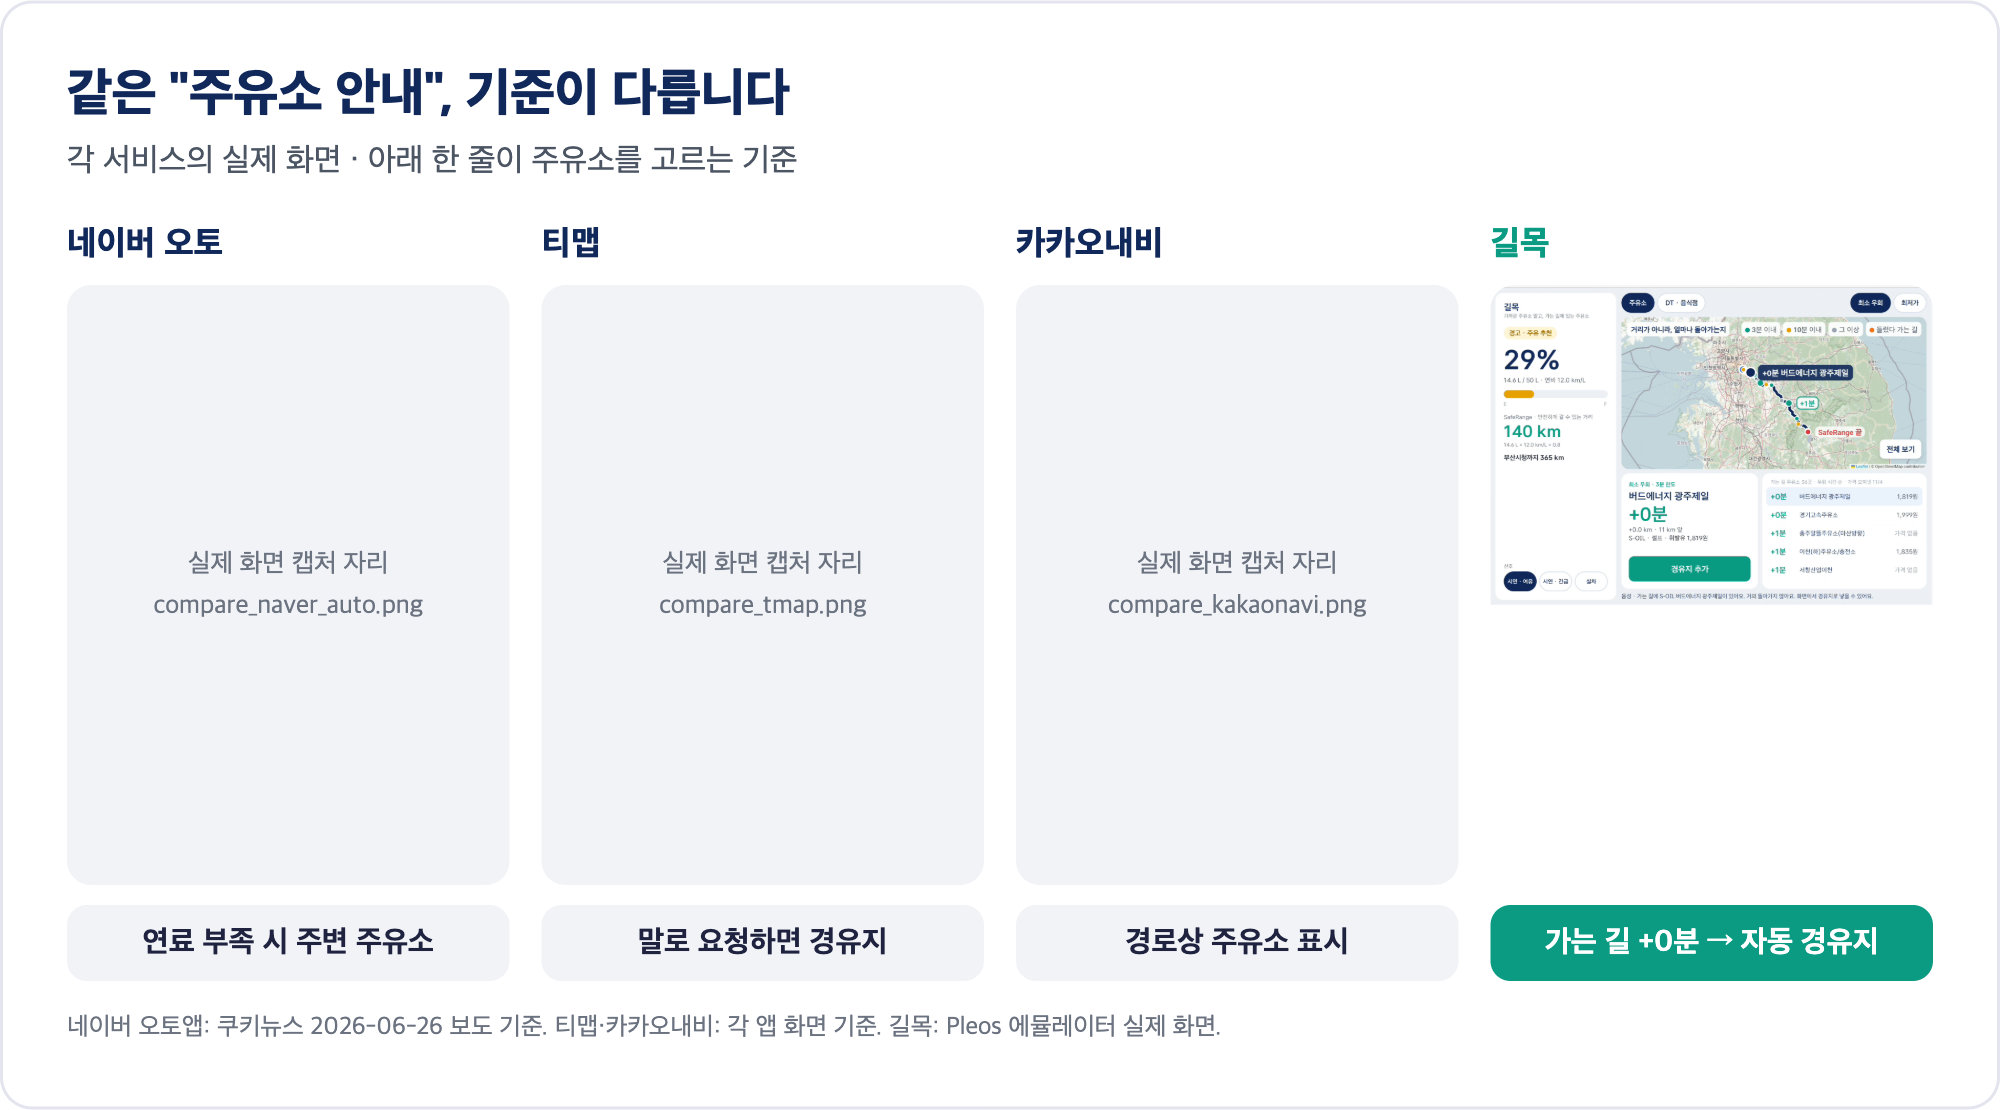
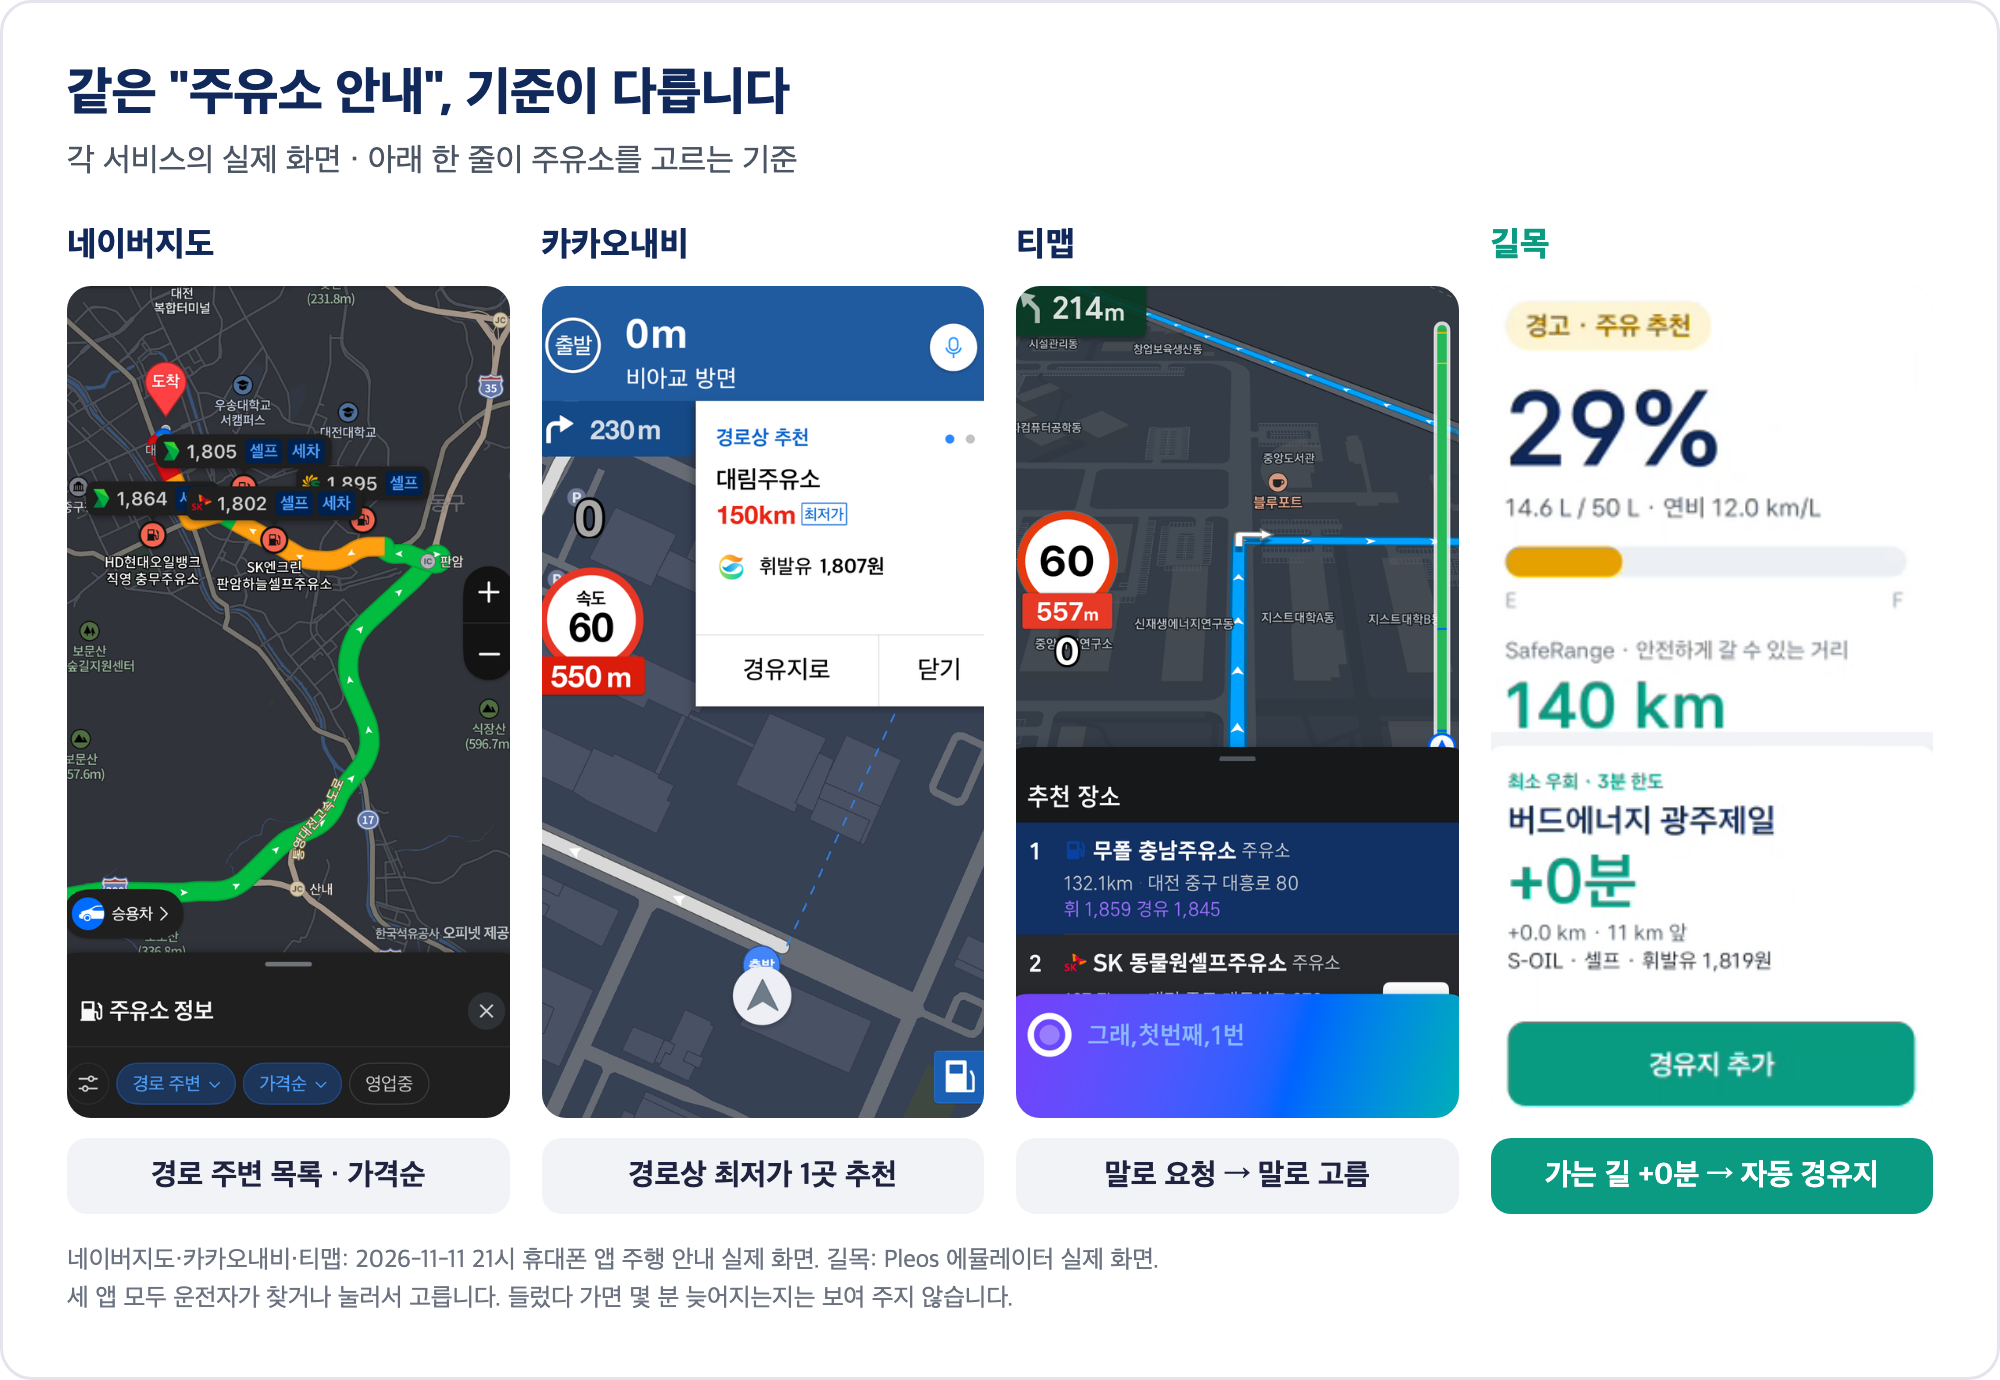
Put real Naver Map, KakaoNavi and TMAP screens in the comparison figure
Replace the placeholders with phone screenshots taken 2026-11-11, relabel
Naver Auto as Naver Map, and match each one-line criterion to what the
screen shows. The Gilmok column now uses a portrait crop of the fuel panel
and recommendation card.

diff --git a/docs/figs/figures.html b/docs/figs/figures.html
@@ -20,9 +20,8 @@ h1{font-size:26px;font-weight:800;color:var(--navy);letter-spacing:-.3px}
 .banner{margin-top:18px;background:var(--navy);color:#fff;border-radius:12px;padding:14px 20px;font-size:19px;font-weight:800;text-align:center}
 /* competitors */
 .col{flex:1;display:flex;flex-direction:column;gap:10px}
-.shot{height:300px;border-radius:12px;background:var(--card);display:flex;align-items:center;justify-content:center;overflow:hidden;color:var(--faint);font-size:13px;text-align:center;line-height:1.6}
+.shot{height:416px;border-radius:12px;background:var(--card);display:flex;align-items:center;justify-content:center;overflow:hidden;color:var(--faint);font-size:13px;text-align:center;line-height:1.6}
 .shot img{width:100%;height:100%;object-fit:cover;object-position:top}
-.ours .shot img{object-fit:contain;background:#fff}
 .name{font-size:17px;font-weight:800;color:var(--navy)}
 .word{border-radius:10px;padding:10px 12px;font-size:15px;font-weight:700;background:var(--card);text-align:center}
 .ours .word{background:var(--teal);color:#fff}
@@ -81,12 +80,12 @@ h1{font-size:26px;font-weight:800;color:var(--navy);letter-spacing:-.3px}
   <h1>같은 "주유소 안내", 기준이 다릅니다</h1>
   <p class="sub">각 서비스의 실제 화면 · 아래 한 줄이 주유소를 고르는 기준</p>
   <div class="row">
-    <div class="col"><div class="name">네이버 오토</div><div class="shot" data-src="compare_naver_auto.png">실제 화면 캡처 자리<br>compare_naver_auto.png</div><div class="word">연료 부족 시 주변 주유소</div></div>
-    <div class="col"><div class="name">티맵</div><div class="shot" data-src="compare_tmap.png">실제 화면 캡처 자리<br>compare_tmap.png</div><div class="word">말로 요청하면 경유지</div></div>
-    <div class="col"><div class="name">카카오내비</div><div class="shot" data-src="compare_kakaonavi.png">실제 화면 캡처 자리<br>compare_kakaonavi.png</div><div class="word">경로상 주유소 표시</div></div>
-    <div class="col ours"><div class="name">길목</div><div class="shot"><img src="gilmok_screen.png" style="object-position:left top"></div><div class="word">가는 길 +0분 → 자동 경유지</div></div>
+    <div class="col"><div class="name">네이버지도</div><div class="shot" data-src="compare_naver_map.png">실제 화면 캡처 자리<br>compare_naver_map.png</div><div class="word">경로 주변 목록 · 가격순</div></div>
+    <div class="col"><div class="name">카카오내비</div><div class="shot" data-src="compare_kakaonavi.png">실제 화면 캡처 자리<br>compare_kakaonavi.png</div><div class="word">경로상 최저가 1곳 추천</div></div>
+    <div class="col"><div class="name">티맵</div><div class="shot" data-src="compare_tmap.png">실제 화면 캡처 자리<br>compare_tmap.png</div><div class="word">말로 요청 → 말로 고름</div></div>
+    <div class="col ours"><div class="name">길목</div><div class="shot"><img src="gilmok_portrait.png"></div><div class="word">가는 길 +0분 → 자동 경유지</div></div>
   </div>
-  <p class="note">네이버 오토앱: 쿠키뉴스 2026-06-26 보도 기준. 티맵·카카오내비: 각 앱 화면 기준. 길목: Pleos 에뮬레이터 실제 화면.</p>
+  <p class="note">네이버지도·카카오내비·티맵: 2026-11-11 21시 휴대폰 앱 주행 안내 실제 화면. 길목: Pleos 에뮬레이터 실제 화면.<br>세 앱 모두 운전자가 찾거나 눌러서 고릅니다. 들렀다 가면 몇 분 늦어지는지는 보여 주지 않습니다.</p>
 </section>
 
 <section id="business_flow">

diff --git a/README.md b/README.md
@@ -20,7 +20,7 @@
 
 <img src="docs/img/phone_vs_car.svg" width="100%" alt="휴대폰 앱과 길목 비교: 남은 연료(별도 장치 없이 얻기 어려움 / 차에서 바로 읽음), 주유 시점(운전자가 판단 / 남은 연료로 판단), 주유소 고르기(운전자가 검색·비교 / 늘어나는 시간으로 자동 선택), 경유지 넣기(화면 조작이나 음성 요청 / 내비에 바로 추가 + 음성 안내)">
 
-<img src="docs/img/competitors.png" width="100%" alt="같은 주유소 안내, 기준이 다름: 네이버 오토는 연료 부족 시 주변 주유소, 티맵은 말로 요청하면 경유지, 카카오내비는 경로상 주유소 표시, 길목은 가는 길 +0분 주유소를 자동 경유지로">
+<img src="docs/img/competitors.png" width="100%" alt="같은 주유소 안내, 기준이 다름 (휴대폰 앱 실제 화면): 네이버지도는 경로 주변 주유소를 가격순 목록으로, 카카오내비는 경로상 최저가 1곳을 추천하고 누르면 경유지, 티맵은 말로 요청하면 추천 목록을 띄우고 말로 골라 경유지. 세 앱 모두 들렀다 가면 몇 분 늦어지는지 보여 주지 않음. 길목은 가는 길 +0분 주유소를 자동 경유지로">
 
 ## 2. 핵심 아이디어
 

diff --git a/docs/figs/render.md b/docs/figs/render.md
@@ -6,5 +6,5 @@
 2. 브라우저(폭 1100 이상)로 `http://127.0.0.1:8765/docs/figs/figures.html?x2` 열기 (2배 크기)
 3. 섹션별로 요소 캡처 → `docs/img/<id>.png`
 
-경쟁 앱 실제 화면은 이 폴더에 `compare_naver_auto.png`, `compare_tmap.png`, `compare_kakaonavi.png`로 넣으면 자리 대신 들어갑니다.
+경쟁 앱 실제 화면(`compare_naver_map.png`, `compare_kakaonavi.png`, `compare_tmap.png`)은 2026-11-11 21시 휴대폰 앱 주행 안내 화면에서 상태 표시줄을 잘라 쓴 것입니다. `gilmok_portrait.png`는 `gilmok_screen.png`의 연료 패널과 추천 카드를 세로로 붙인 것입니다.
 네이버지도 비교(`naver_*_map.png`)는 2026-11-11 21시 네이버지도 자동차 길찾기 화면을 잘라 쓴 것입니다.
